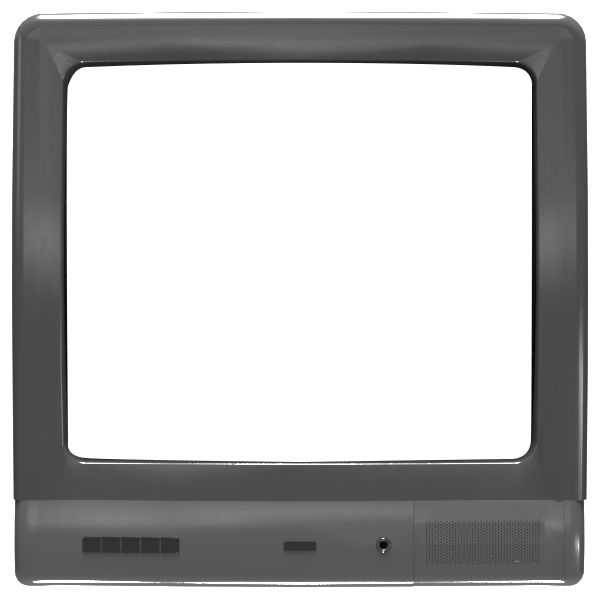
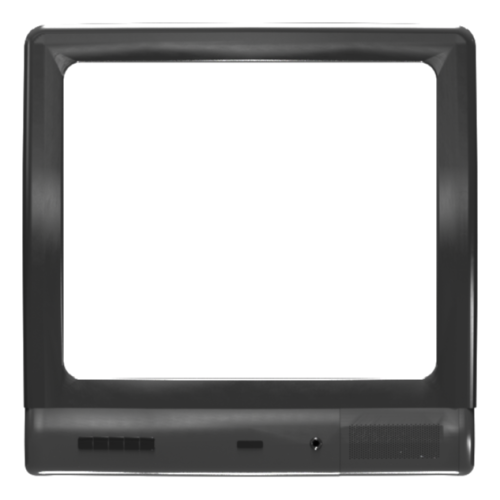
new crts

diff --git a/src/GameImages.jsx b/src/GameImages.jsx
@@ -9,7 +9,11 @@ const GameImages = ({ isBothPlayerAnswersCorrect, GlobalTournamentAnswer }) => {
         '/assets/GameImages/hbox-popoff-3.gif'
     ];
     
-    const borderImagePath = '/assets/GameImages/Center_CRT.png';
+    const borderImagePath = {
+        0: '/assets/GameImages/Left_CRT.png',
+        1: '/assets/GameImages/Center_CRT.png',
+        2: '/assets/GameImages/Right_CRT.png'
+    };
     const [hoveredIndex, setHoveredIndex] = useState(null);
     const [gifPaths, setGifPaths] = useState(gameData[0].gifPaths);
 
@@ -88,7 +92,7 @@ const GameImages = ({ isBothPlayerAnswersCorrect, GlobalTournamentAnswer }) => {
                             )}
                         </div>
                         <img
-                            src={borderImagePath}
+                            src={borderImagePath[index]}
                             alt="Border"
                             style={{
                                 position: 'absolute',
